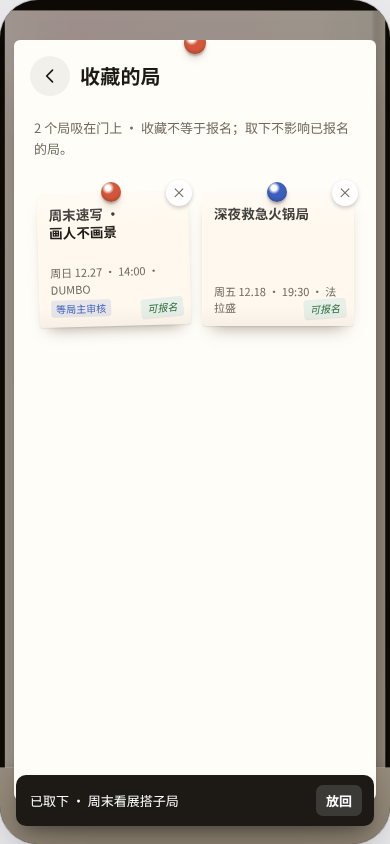
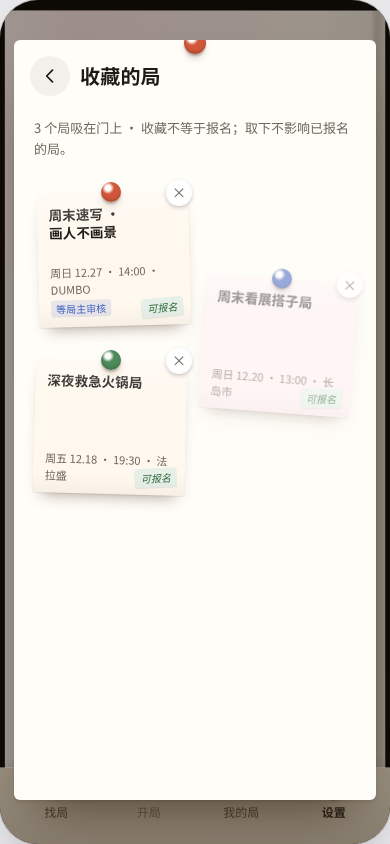
Settings tools (coverage matrix, motion specs, smoke + core regression) and SC05 FLIP reflow + help menu paper
Claude-Session: https://claude.ai/code/session_01QSSEBZxNKc4NW1JEBSGcL7

diff --git a/settings/concepts/src/SC05.dc.html b/settings/concepts/src/SC05.dc.html
@@ -278,7 +278,10 @@ body{margin:0}
 .sw .mag{right:8px;top:8px;left:auto;width:18px;height:18px;opacity:0;transform:scale(.4);transition:transform calc(380ms * var(--k,1)) cubic-bezier(.18,1.5,.36,1),opacity calc(200ms * var(--k,1)) ease}
 .sw.on .mag{opacity:1;transform:scale(1)}
 /* help */
-.qa{border-bottom:1px solid var(--line);padding:10px 0}
+.helpmenu{background:#fff;border-radius:4px;padding:6px 14px 10px;box-shadow:0 1px 1px rgba(var(--shadow),.08),0 10px 14px -10px rgba(var(--shadow),.5);position:relative;margin:4px 0 14px;background-image:repeating-linear-gradient(180deg,transparent 0 31px,rgba(0,0,0,.035) 31px 32px)}
+.helpmenu .mag{left:50%;top:-10px;margin-left:-11px}
+.helpmenu h5{margin:12px 0 2px;font-family:"Long Cang",cursive;font-size:17px;font-weight:400;color:#2d2a25;letter-spacing:.04em}
+.qa{border-bottom:1px dashed rgba(0,0,0,.14);padding:9px 0}
 .qa summary{list-style:none;cursor:pointer;font-size:15px;font-weight:500;display:flex;justify-content:space-between;align-items:center;gap:10px}
 .qa summary::-webkit-details-marker{display:none}
 .qa summary::after{content:"＋";color:var(--mute);font-weight:400}
@@ -632,7 +635,9 @@ body{margin:0}
 
             <sc-if value="{{page.isHelp}}" hint-placeholder-val="{{false}}">
               <p class="lead">常见问题按「参加约定」整理；遇到具体活动的问题去「我的举报」，对产品的意见用下面的反馈。</p>
-              <sc-for list="{{help.qas}}" as="q" hint-placeholder-count="5"><details class="qa"><summary>{{q.q}}</summary><p>{{q.a}}</p></details></sc-for>
+              <div class="helpmenu"><div class="mag green"></div>
+                <sc-for list="{{help.groups}}" as="g" hint-placeholder-count="3"><h5>{{g.name}} · {{g.line}}</h5><sc-for list="{{g.qas}}" as="q" hint-placeholder-count="3"><details class="qa"><summary>{{q.q}}</summary><p>{{q.a}}</p></details></sc-for></sc-for>
+              </div>
               <div class="btnrow"><button type="button" class="btn ghost" data-act="open" data-rid="rules" onClick="{{help.openRules}}">规则全文</button><button type="button" class="btn ghost" data-act="open" data-rid="reports" onClick="{{help.openReports}}">我的举报</button><button type="button" class="btn" data-act="feedback" onClick="{{help.openFeedback}}">写反馈</button></div>
               <sc-if value="{{help.hasFeedback}}" hint-placeholder-val="{{false}}"><div class="grp" style="margin-top:18px"><h4>我的反馈 · {{help.feedbackCount}}</h4><sc-for list="{{help.feedback}}" as="f" hint-placeholder-count="1"><div class="fbrow">{{f.text}}<small>{{f.localNo}} · {{f.atText}} · {{f.statusLabel}}</small></div></sc-for></div></sc-if>
             </sc-if>
@@ -852,13 +857,20 @@ class Component extends DCLogic {
     try { navigator.clipboard.writeText(wx).then(() => done(true), () => done(false)); } catch (e) { done(false); }
   }
   /* ---------- favorites ---------- */
+  measureCells() { const root = this.rootRef.current; const m = {}; if (!root) return m; root.querySelectorAll('.fcell[data-rid]').forEach(el => { m[el.dataset.rid] = el.getBoundingClientRect(); }); return m; }
+  componentDidUpdate() {
+    if (!this._flip) return; const before = this._flip; this._flip = null; const root = this.rootRef.current; if (!root) return;
+    const k = this.state.review.rm || this.state.data.appearance.reduceMotion ? 0 : (this.state.review.speed === 0.5 ? 2 : 1);
+    root.querySelectorAll('.fcell[data-rid]').forEach(el => { const b = before[el.dataset.rid]; if (!b) return; const a = el.getBoundingClientRect(); const dx = b.left - a.left, dy = b.top - a.top; if (Math.abs(dx) < 1 && Math.abs(dy) < 1) return;
+      el.style.transition = 'none'; el.style.transform = 'translate(' + dx + 'px,' + dy + 'px)'; void el.getBoundingClientRect(); el.style.transition = 'transform ' + (360 * k) + 'ms cubic-bezier(.2,.9,.3,1.04)'; el.style.transform = ''; });
+  }
   removeFav(id, title) {
     this.motion('fav-remove', () => {
       this.setState(s => ({ leaving: Object.assign({}, s.leaving, { [id]: true }) }));
-      this.after(380, () => { const res = this.act('unfavorite', { eventId: id }); this.setState(s => { const l = Object.assign({}, s.leaving); delete l[id]; return { leaving: l, undo: res.effect.type === 'error' ? null : { id, title, last: !!res.effect.last } }; }); if (res.effect.type === 'error') { this.say(res.effect.message); return; } this.holdKey('undo', 10000, () => this.setState({ undo: null })); });
+      this.after(380, () => { this._flip = this.measureCells(); const res = this.act('unfavorite', { eventId: id }); this.setState(s => { const l = Object.assign({}, s.leaving); delete l[id]; return { leaving: l, undo: res.effect.type === 'error' ? null : { id, title, last: !!res.effect.last } }; }); if (res.effect.type === 'error') { this.say(res.effect.message); return; } this.holdKey('undo', 10000, () => this.setState({ undo: null })); });
     });
   }
-  restoreFav() { const u = this.state.undo; if (!u) return; this.cancelKey('undo'); const res = this.act('favorite', { eventId: u.id }); this.setState({ undo: null, snapItem: null }); this.say(res.effect.type === 'error' ? res.effect.message : '已放回 · ' + u.title); }
+  restoreFav() { const u = this.state.undo; if (!u) return; this.cancelKey('undo'); this._flip = this.measureCells(); const res = this.act('favorite', { eventId: u.id }); this.setState({ undo: null, snapItem: null }); this.say(res.effect.type === 'error' ? res.effect.message : '已放回 · ' + u.title); }
   toggleFav(id, title) { const on = JUS.derive.isFav(this.state.data, id); const res = this.act('toggleFavorite', { eventId: id }); if (res.effect.type === 'error') { this.say(res.effect.message); return; } this.say(on ? '已取下 · ' + title : '已吸上门 · ' + title + ' · 共 ' + res.effect.count + ' 个'); }
   /* ---------- records / reports forms ---------- */
   newRf(kind, recordId) { const k = kind + '|' + recordId; return { kind, recordId, text: this.state.drafts[k] || '', err: '', fail: null, saving: false }; }
@@ -1000,7 +1012,7 @@ class Component extends DCLogic {
     } else { out.rpd = {}; out.rs = { mats: [], text: '' }; }
     /* help / feedback */
     const withBody = JUS.RULES.filter(r => r.body); const fbs = JUS.derive.feedback(d);
-    out.help = { qas: withBody.map(r => ({ q: r.title, a: r.body })).concat([{ q: '举报和反馈有什么不同？', a: '针对某个局或某个人的事，在散场页点「举报」，进度在「我的举报」；对产品的意见用「写反馈」。两者分开保存。' }]), openRules: () => this.push('rules'), openReports: () => this.push('reports'), openFeedback: () => this.push('feedback', null, { fb: { text: '', err: '', fail: null, saving: false, done: null } }), hasFeedback: fbs.length > 0, feedbackCount: fbs.length, feedback: fbs };
+    out.help = { groups: JUS.RULE_GROUPS.map(g => ({ name: g.name, line: g.line, qas: withBody.filter(r => r.group === g.key).map(r => ({ q: r.title, a: r.body })) })).concat([{ name: '其他', line: '举报、反馈与本地演示', qas: [{ q: '举报和反馈有什么不同？', a: '针对某个局或某个人的事，在散场页点「举报」，进度在「我的举报」；对产品的意见用「写反馈」。两者分开保存。' }, { q: '这里的数据会上传吗？', a: '不会。' + JUS.COPY.demoOnly + '；收藏、资料、偏好与记录只保存在本机浏览器。' }] }]), openRules: () => this.push('rules'), openReports: () => this.push('reports'), openFeedback: () => this.push('feedback', null, { fb: { text: '', err: '', fail: null, saving: false, done: null } }), hasFeedback: fbs.length > 0, feedbackCount: fbs.length, feedback: fbs };
     const fb = s.fb || { text: '', err: '', fail: null, saving: false, done: null };
     out.fb = { text: fb.text, err: fb.err, errCls: fb.err ? 'err' : '', fail: !!fb.fail, failMsg: fb.fail || '', done: !!fb.done, doneNo: fb.done || '', saving: fb.saving || !!fb.done, setText: (ev) => this.setState(st => ({ fb: Object.assign({}, st.fb, { text: ev.target.value, err: '' }) })), cancel: () => this.goBack(), submit: () => { const f = this.state.fb; if (!f || f.saving) return; this.setState(st => ({ fb: Object.assign({}, st.fb, { saving: true, fail: null }) })); this.after(420, () => { const res = this.act('submitFeedback', { text: this.state.fb.text }); if (res.effect.type === 'invalid') { this.setState(st => ({ fb: Object.assign({}, st.fb, { saving: false, err: res.effect.errors.text }) })); return; } if (res.effect.type === 'error') { this.setState(st => ({ fb: Object.assign({}, st.fb, { saving: false, fail: res.effect.message }) })); return; } const no = res.data.feedback.filter(x => x.id === res.effect.id)[0].localNo; this.setState(st => ({ fb: Object.assign({}, st.fb, { saving: false, done: no }) })); }); } };
     /* privacy / account / about / rules */

diff --git a/settings/spec/motion-specs.md b/settings/spec/motion-specs.md
@@ -1,0 +1,64 @@
+# 设置十套 · 关键视觉参数与核心动效分段（汇总 2026-10-17）
+
+各节由对应方案的实现代理撰写（当前代码值），主负责人复核状态见 JU-SETTINGS-PROJECT-RECORD.md §E。
+
+## SC05 冰箱门 · 规格与核心动作（当前代码值 · 实际观察 · 建议值分开）
+
+源文件：`settings/concepts/src/SC05.dc.html`。证据：`settings/evidence/SC05/`（命名状态 PNG；`motion-1/2/3/`、`motion-seam-swipe/`、`coverage/` 为 JPEG 抽帧）。验证环境：容器内无头 Chromium（SwiftShader，无 GPU），390×844，Playwright 抽帧；未做真机。
+
+## 构图与视觉参数（当前代码值）
+- 门：`.door` 奶白搪瓷 `#f1ece4`（棉糖 / 光晕 / 落日三种 tint 由 `data-skin` 切换：`--door` 与 `--glow` 两层），右侧 14px 门封 `.seal`，左侧 10×260 把手 `.handle`，底部 76px 踢脚板 `.kick` 作为主导航（找局 / 开局 / 我的局 / 设置，选中项为红磁贴圆点）。
+- 名片 `.namecard` 330×124 @ (30,58) 旋转 −1.2°；称呼 27px/600（>7 字时 21px 两行），微信 / 邮箱 12.5px，邮箱标签 10.5px；右下角「点开 · 编辑资料」11px。
+- 传单叠 `.stack` @ (24,208)：三张 176×134 的传单（按 pack 换纸色：invite 米白 / grain 灰米 / mono 冷白 / riso 淡粉 / acid 淡绿 / street 淡蓝），旋转 0.6° / −2.2° / 3.4°，偏移 (0,0) (12,15) (22,30)；标题 14px/700 `text-wrap:balance` 最多三行；右下角状态贴纸 10px（可报名 薄荷 / 已结束 灰）；计数磁贴 30px 红。
+- 白板 `.board` 140×182 @ (226,202) 旋转 1°，6px 浅灰边框；标题 Long Cang 19px；五行「提醒 / 系统 / 城市 / 外观 / 动态」11.5px，各行可点（分别进入通知 / 城市 / 外观）。
+- 铁盒 `.tin` 342×76 @ (24,402) 旋转 −0.4°：盖子 14px；左右两格「我的记录 / 我的举报」13.5px/600 + 11.5px 副文（待核实 / 需补充用红 `#d2573a`）。
+- 字磁贴 `.mag-word` 40px 高，帮助 绿 `#4f8a5b` / 隐私 蓝 `#3c5fbf` / 账户 黄 `#c99a1d` / 关于 灰 `#8d877e`，y=506。
+- 便签 `.sticky` 206×112 @ (40,578) 旋转 −2.4° 黄 `#f5e27c`（有需要处理的项时；否则浅绿「都处理好了」），右侧「本地演示」小便签 104×76 @ (264,606) 旋转 2.6°。
+- 磁贴 `.mag` 22px 球形：径向高光 + 底部内阴影 + 两层投影；颜色 红 / 蓝 / 绿 / 黄 / 灰。
+- 字体：Noto Sans SC（正文 / 标题）、Fraunces（数字、微信号、验证码）、Long Cang（手写标题，仅 ≥15px）。色板：墨 `#1d1a16`、次级 `#6f685d`、纸 `#fffdf8`、米 `#fbf5ea`、薄荷 `#e6f0e8`、天蓝 `#e8eef7`；投影统一 `rgba(60,40,20,α)`。
+- 二级页 = 被拿起的纸（`.sheet` 362×760 @ (14,40)，圆角 6px，顶部一枚磁贴 `.mag.pin`）；外观页为半高（`.half`：top 372，height 428），门在上方可见。
+- 控件形态：开关 = 翻面磁贴 `.flip`（正面蓝「开」/ 背面灰「关」）；单选 = 城市磁贴 `.citym`（选中蓝）；文本编辑 = 米色输入条 + 底线；记录 = 四角钉点的索引卡 `.rcard`（横线底纹，顶边色条按类型）；补充 / 异议 / 申诉 = 黄色便签 `.sticky` 贴在卡下；危险操作 = 红按钮 + 黄便签确认层；举报进度 = 时间线 `.timeline`。
+
+## 核心动作 ①：拿起 / 贴回（磁吸）—— 进入与返回任何二级页
+- 触发：点门上任一物件（名片 / 传单叠 / 白板行 / 铁盒格 / 字磁贴 / 便签）。
+- 起始：`open()` 用 `JU.fx.rectIn(el.closest('.paper'))` 取物件矩形；物件本体加 `ghost`（opacity 0），`.sheet` 以内联 `left/top/width/height` + 旋转角（名片 −1.2° / 白板 1° / 便签 −2.4°）出现在同一位置，`.carry` 层显示该物件的内容（称呼 / 微信 / 邮箱；传单标题；白板行；铁盒两格；磁贴字；便签字）。
+- 受力 / 关键变化（`in` 阶段，16ms 后）：`.sheet` 过渡到 (14,40,362,760) 与 0°，`transition: 420ms cubic-bezier(.2,.9,.3,1.02)`；门 `.lifted`：`scale(.975)` + `brightness(.88) saturate(.9)` 420ms；遮罩 `rgba(40,28,12,.32)` 380ms；字磁贴 / 便签 / 白板起点时面板底色为该物件的颜色（`c-word / c-sticky / c-board`），`in` 后 420ms 过渡到纸色。
+- 内容接替：`.carry` 60ms 后 160ms 淡出；页头 200ms 后 240ms 淡入；正文 240ms 后 260ms 淡入。
+- 落定：面板静止，磁贴 `.mag.pin` 固定在顶边中点。
+- 返回：`close()`：面板回到起点矩形（同 420ms），内容淡出、`.carry` 淡入；门恢复；430ms 后卸载面板，物件取消 `ghost`，其磁贴播放 `sc05-snap`（520ms `cubic-bezier(.18,1.5,.36,1)`：`translateY(-10px) scale(1.25)` → `(1px,.96)` → `(0,1)`，投影随之收小）。
+- 中断：返回途中再点其他物件被 `lift.phase==='out'` 挡住（新 open 直接以 `in` 态打开）；面板内多级（收藏 → 详情）用 `.pg` 的 `sc05-pushin`（42px → 0，320ms）/ `sc05-popin`（−30px → 0）。
+- 实际观察（`motion-3/`，0.5×）：名片内容随面板一起放大、页面内容在落定前后淡入；返回时面板缩回名片位置并显示更新后的「阿禾二」，磁贴弹跳一次。
+- 建议值：面板缩回时可在最后 80ms 加 2px 的「吸附」位移（当前只有磁贴弹跳）；减少动态下全部 1ms（已验证 `.rm` / `.rm-user`）。
+
+## 核心动作 ②：翻面开关（通知偏好 / 减少动态）
+- 触发：点 `.flip` 磁贴；`act('setNotifyPref')` 立即写入。
+- 变化：`.disc` 以 `rotateY 0 ↔ 180deg`，`380ms cubic-bezier(.2,.9,.3,1.04)`，`perspective 420px`，正面蓝「开」、背面灰「关」（`backface-visibility:hidden`）；失败时（面板武装）数据不变、toast 报错、磁贴停在原面。
+- 实际观察（`motion-2/`）：第 3–5 帧可见磁贴侧立成薄片再翻到灰面，文字不糊。
+- 建议值：可按 SM01 的节奏让轨道色先变（磁贴底座先变灰 80ms 再翻面）；当前未做。
+
+## 核心动作 ③：取下 / 放回（收藏管理）与门上的磁吸
+- 触发：收藏页每张传单右上角 `×`（`data-act="unfav"`）。
+- 变化：该格 `.fcell.leaving`：`translateY(120px) rotate(6deg)` + 淡出，`380ms cubic-bezier(.2,.9,.3,1.04)`；380ms 后 `act('unfavorite')`，网格重排；底部撤销条 `.undo` 上滑 300ms；`holdKey('undo', 10000)`。
+- 放回：`act('favorite')` → 传单回到网格首位（按收藏时间倒序），toast「已放回 · …」；最后一张取下 → 空态「还没有收藏 / 遇到想去的，留在这里。/ 去找局」（去找局进入入局接缝）。
+- 实际观察（`motion-1/`）：取下的传单向下滑出，相邻格立刻补位（无位移过渡），撤销条出现；放回后出现在首位。
+- 建议值：相邻格补位应做 FLIP 位移（当前是瞬移），估计 320ms；取下的传单落点可做成「滑入门底回收槽」（当前只是向下淡出）。
+
+## 接缝手势（入局 01）—— V27 参数逐字
+- 死区 6px；`|dx| > |dy|×1.25` 判横向；右滑 > 82px 且未收藏 → 收进收藏；左滑 < −82px 且已收藏 → 拿出收藏；错误方向位移 ×0.26 + 灰洗层 + 「已经收着了 / 还没收藏」；正确方向夹 ±190px；卡片旋转 `dx×0.012°`；洗层不透明度 `min(1,|dx|/96)`（错误方向 ×0.5）；图标 ★ / ☆ 随 fp 旋转 ±13°；释放回弹 `transform .5s cubic-bezier(.2,.9,.3,1.04)`；收藏角标 `scale(.35→1)` `520ms cubic-bezier(.18,1.5,.36,1)`。
+- 实际观察（`motion-seam-swipe/`、`.build/sc05-cap8`）：四种情形（收进 / 已收着 / 拿出 / 未过阈值回弹）均与预期一致；toast 与「收藏 N」计数同步；我的局与设置的收藏标记同步。
+
+## 其他运动
+- 外观预览：`.door` 背景 `650ms cubic-bezier(.22,1,.36,1)`（R3 的时长）；`贴上` 后 2600ms 显示「已贴上」。
+- 保存：按钮 420ms「保存中…」→ 引擎写入 → `pop` 回查看页 → toast 2600ms；失败：`.alert` 抖动 360ms + 重试，输入保留。
+- 权限申请：`requestPermission` → 1300ms「系统弹窗（示意）」→ `resolvePermission`（面板预设）→ toast。
+- 未保存返回：黄便签确认层 300ms 上滑。
+
+## 已知问题（主负责人自检）
+1. 收藏网格补位无 FLIP（见 ③ 建议值）。
+2. 帮助页的问答列表较平（纯文字 details），与门上的物件语言相比略弱；可改成贴在门上的折页说明书。
+3. 词磁贴 lift 起点只有 40px 高，放大过程中前 100ms 文字只有一个词，继续优化可让词保持在左上角不缩放（当前 carry 用 `.who.word` 14px 白字）。
+4. 无真机触控验证；`touch-action:pan-y` 仅按规范设置。
+
+
+---
+

diff --git a/settings/spec/motion/SC05.md b/settings/spec/motion/SC05.md
@@ -36,8 +36,9 @@
 - 触发：收藏页每张传单右上角 `×`（`data-act="unfav"`）。
 - 变化：该格 `.fcell.leaving`：`translateY(120px) rotate(6deg)` + 淡出，`380ms cubic-bezier(.2,.9,.3,1.04)`；380ms 后 `act('unfavorite')`，网格重排；底部撤销条 `.undo` 上滑 300ms；`holdKey('undo', 10000)`。
 - 放回：`act('favorite')` → 传单回到网格首位（按收藏时间倒序），toast「已放回 · …」；最后一张取下 → 空态「还没有收藏 / 遇到想去的，留在这里。/ 去找局」（去找局进入入局接缝）。
-- 实际观察（`motion-1/`）：取下的传单向下滑出，相邻格立刻补位（无位移过渡），撤销条出现；放回后出现在首位。
-- 建议值：相邻格补位应做 FLIP 位移（当前是瞬移），估计 320ms；取下的传单落点可做成「滑入门底回收槽」（当前只是向下淡出）。
+- 补位：`componentDidUpdate` 做 FLIP —— 取下前记录每格 `getBoundingClientRect`，引擎写入后把每个仍在的格先 `translate` 回旧位、再以 `transform 360ms cubic-bezier(.2,.9,.3,1.04)` 滑到新位；放回同样处理（减少动态 → 0ms；0.5× → 720ms）。
+- 实际观察（`motion-1/`，13 张收藏变体，0.5×）：第 2–6 帧取下的传单向下滑出，第 7–10 帧相邻格沿网格滑行补位（可见两张传单短暂交叠，属 FLIP 过渡中的正常现象），撤销条上滑；放回后传单从首位出现，其余格再滑回原位。
+- 建议值：取下的传单落点可做成「滑入门底回收槽」（当前只是向下淡出）；FLIP 位移可改为 320ms 更轻快。
 
 ## 接缝手势（入局 01）—— V27 参数逐字
 - 死区 6px；`|dx| > |dy|×1.25` 判横向；右滑 > 82px 且未收藏 → 收进收藏；左滑 < −82px 且已收藏 → 拿出收藏；错误方向位移 ×0.26 + 灰洗层 + 「已经收着了 / 还没收藏」；正确方向夹 ±190px；卡片旋转 `dx×0.012°`；洗层不透明度 `min(1,|dx|/96)`（错误方向 ×0.5）；图标 ★ / ☆ 随 fp 旋转 ±13°；释放回弹 `transform .5s cubic-bezier(.2,.9,.3,1.04)`；收藏角标 `scale(.35→1)` `520ms cubic-bezier(.18,1.5,.36,1)`。
@@ -50,7 +51,7 @@
 - 未保存返回：黄便签确认层 300ms 上滑。
 
 ## 已知问题（主负责人自检）
-1. 收藏网格补位无 FLIP（见 ③ 建议值）。
-2. 帮助页的问答列表较平（纯文字 details），与门上的物件语言相比略弱；可改成贴在门上的折页说明书。
+1. ~~收藏网格补位无 FLIP~~ 已加 FLIP（见 ③）。
+2. ~~帮助页的问答列表较平~~ 已改成贴在门上的「外卖菜单」纸：按参加约定的三组分段，手写体组名 + 虚线分隔；多了「这里的数据会上传吗」一问（证据 `help.png`）。
 3. 词磁贴 lift 起点只有 40px 高，放大过程中前 100ms 文字只有一个词，继续优化可让词保持在左上角不缩放（当前 carry 用 `.who.word` 14px 白字）。
 4. 无真机触控验证；`touch-action:pan-y` 仅按规范设置。

diff --git a/JU-SETTINGS-PROJECT-RECORD.md b/JU-SETTINGS-PROJECT-RECORD.md
@@ -87,7 +87,7 @@
 
 ## E. 设置 SC01—SC10 的真实规格与进度
 - 方向卡：`settings/spec/directions.md`（六维 + 差异矩阵 + 淘汰方向）；参考映射：`settings/spec/concept-refs.md`。
-- **SC05 冰箱门**（主负责人亲自实现；已写代码 · 已运行 · 已检查静态视觉 · 已观看核心动效抽帧 · 已检查交互与状态；用户未审阅）：源 `settings/concepts/src/SC05.dc.html`（~121 KB）；规格与三个核心动作分段 `settings/spec/motion/SC05.md`（构图坐标、字体字号、色板、材质、每段时长与曲线、实际观察与建议值分开）；证据 `settings/evidence/SC05/`（home / dense / favorites / favorites-after-remove / record-detail / record-supplement(-saved) / report-supplement / saved(-home) / edge-empty / edge-fail / edge-denied / edge-long / edge-invalid / seam-feed / seam-feed-detail / seam-mine / appearance-preview；`motion-1` 取下与放回、`motion-2` 翻面开关、`motion-3` 拿起名片 → 编辑 → 保存 → 贴回、`motion-seam-swipe` 入局滑动收藏；`coverage/` 49 个索引状态 0 错误）。已知问题见 `spec/motion/SC05.md` 末尾（收藏网格补位无 FLIP、帮助页偏平、词磁贴 lift 前 100ms 内容少）。
+- **SC05 冰箱门**（主负责人亲自实现；已写代码 · 已运行 · 已检查静态视觉 · 已观看核心动效抽帧 · 已检查交互与状态；用户未审阅）：源 `settings/concepts/src/SC05.dc.html`（~121 KB）；规格与三个核心动作分段 `settings/spec/motion/SC05.md`（构图坐标、字体字号、色板、材质、每段时长与曲线、实际观察与建议值分开）；证据 `settings/evidence/SC05/`（home / dense / favorites / favorites-after-remove / record-detail / record-supplement(-saved) / report-supplement / saved(-home) / edge-empty / edge-fail / edge-denied / edge-long / edge-invalid / seam-feed / seam-feed-detail / seam-mine / appearance-preview；`motion-1` 取下与放回、`motion-2` 翻面开关、`motion-3` 拿起名片 → 编辑 → 保存 → 贴回、`motion-seam-swipe` 入局滑动收藏；`coverage/` 49 个索引状态 0 错误）。已知问题见 `spec/motion/SC05.md` 末尾（词磁贴 lift 前 100ms 内容少、无真机触控）；原先的「收藏网格补位无 FLIP」「帮助页偏平」已修（`componentDidUpdate` FLIP 位移 360ms；帮助页改为门上的菜单纸，证据 `help.png` 与重抽的 `motion-1/`）。
 - SC01 / SC02 / SC03 / SC04 / SC06 / SC07 / SC08 / SC09 / SC10：代理构建中（未完成、无证据、无代码值可记录）。
 
 ## F. 代码地图与可迁移性
